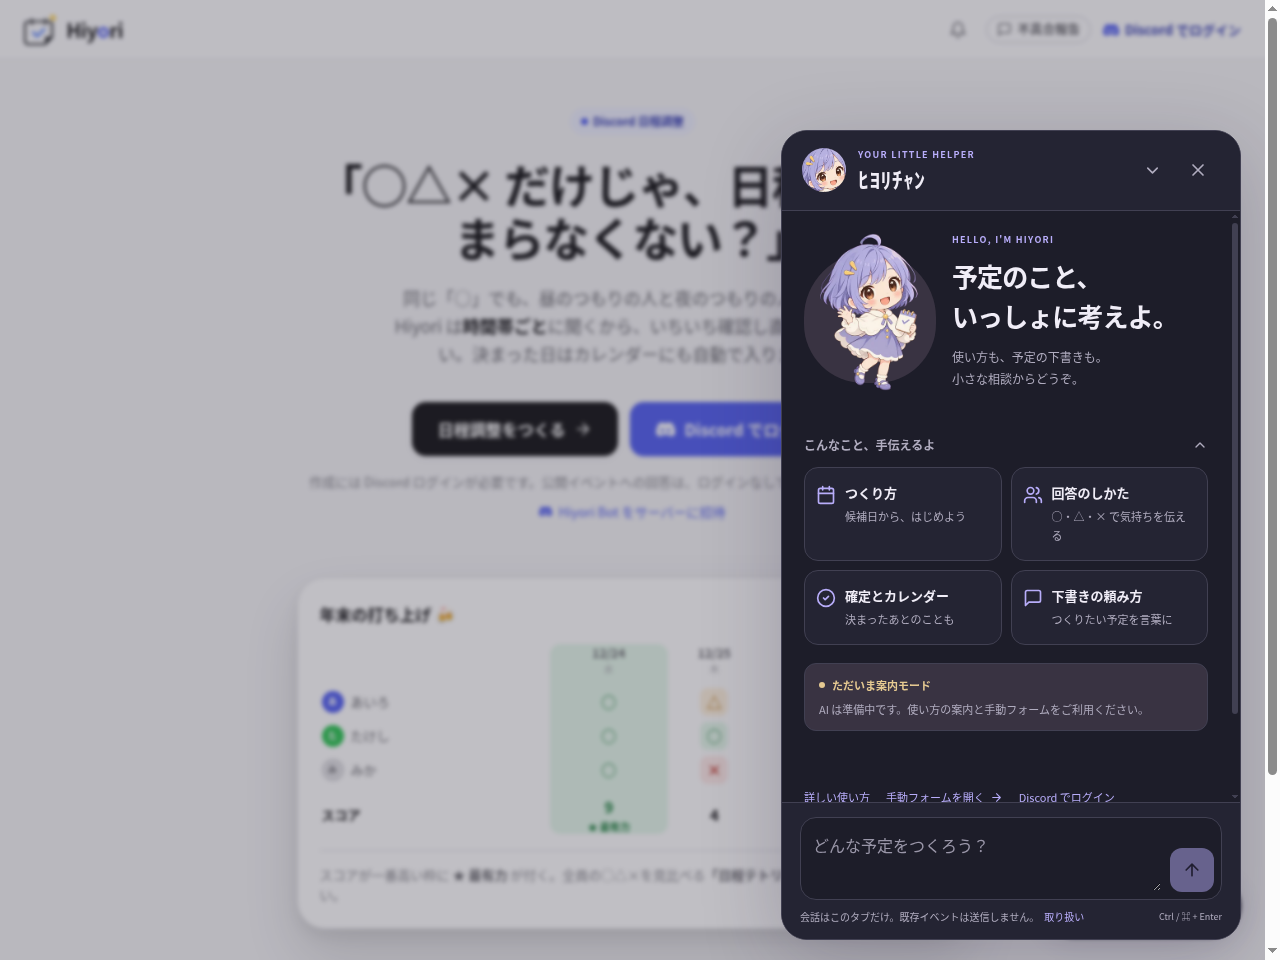
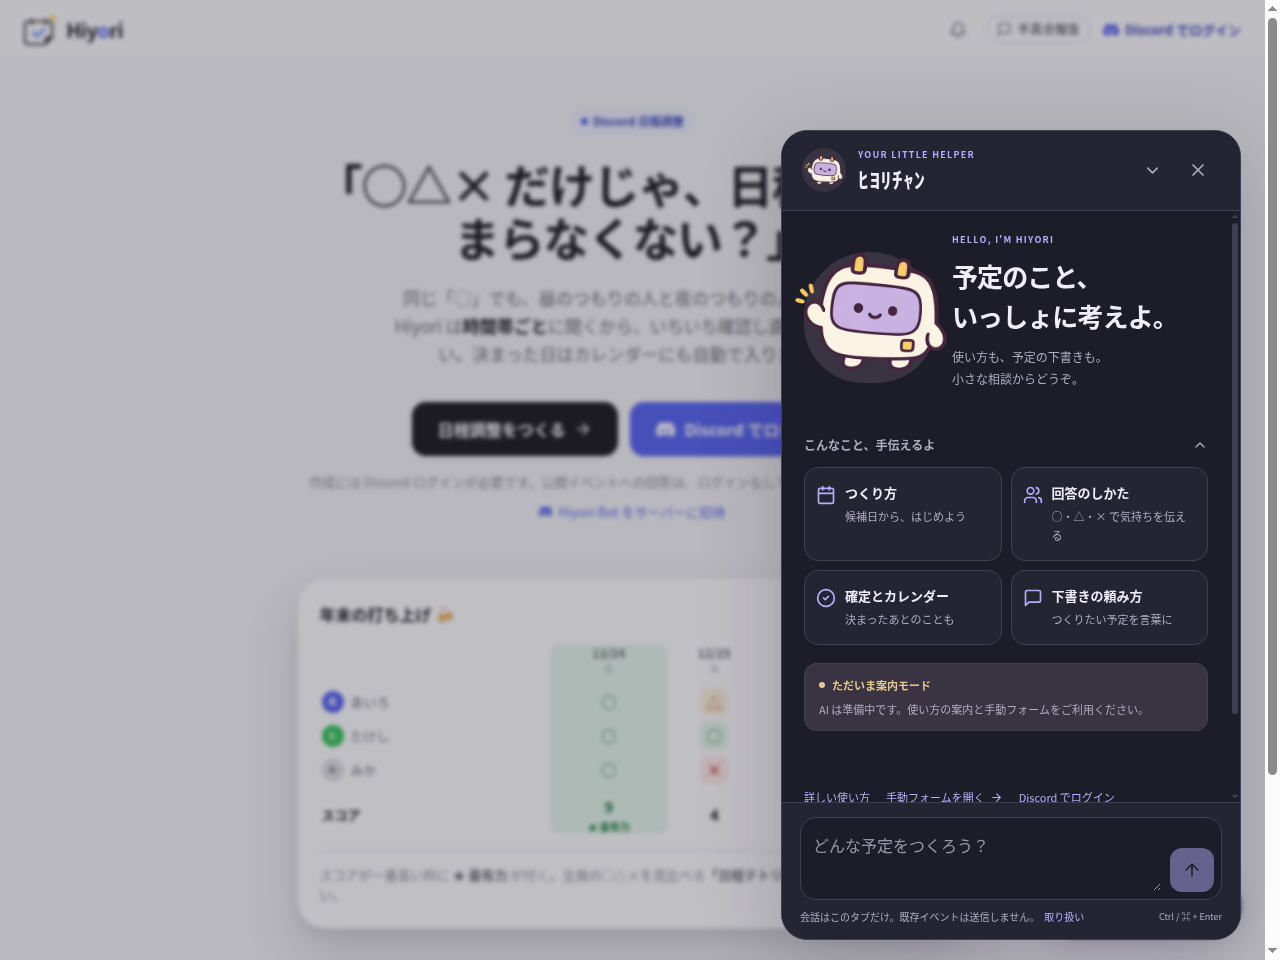
Replace mascot artwork with approved calendar bot

Changed region(s): [[0.625, 0.25, 0.75, 0.4062], [0.625, 0.1562, 0.6875, 0.2188]]

diff --git a/src/client/components/Hiyori.tsx b/src/client/components/Hiyori.tsx
@@ -5,7 +5,7 @@ import { useSession, loginUrl } from '../auth/useSession'
 import { HIYORI_GUIDE, HIYORI_MEME, hiyoriReplySchema, isHiyoriMeme, type HiyoriDraft } from '../../shared/hiyori'
 import type { ComposerInitial } from './events/EventComposer'
 import { Icon } from './primitives'
-import hiyoriCharacter from '../assets/images/hiyori-chan.webp'
+import hiyoriCharacter from '../assets/images/hiyori-bot.webp'
 import './Hiyori.css'
 
 type Message = { id: string; role: 'user' | 'assistant'; content: string }
@@ -251,7 +251,7 @@ export function HiyoriProvider({ children }: { children: ReactNode }) {
         </header>
         <div ref={scroller} className="hiyori-scroll">
           {!current.messages.length && !current.draft && !busy && <section className="hiyori-welcome" aria-label="ﾋﾖﾘﾁｬﾝのごあいさつ">
-            <div className="hiyori-welcome-art"><img src={hiyoriCharacter} alt="カレンダーを持って手を振るﾋﾖﾘﾁｬﾝ" width={384} height={384} decoding="async" /></div>
+            <div className="hiyori-welcome-art"><img src={hiyoriCharacter} alt="手を振る小さなカレンダー型 Bot、ﾋﾖﾘﾁｬﾝ" width={384} height={384} decoding="async" /></div>
             <div><span className="hiyori-eyebrow">HELLO, I'M HIYORI</span><h3>予定のこと、<br />いっしょに考えよ。</h3><p>使い方も、予定の下書きも。<br />小さな相談からどうぞ。</p></div>
           </section>}
           <details className="hiyori-guides" open={guidesOpen} onToggle={(event) => setGuidesOpen(event.currentTarget.open)}>

diff --git a/src/client/components/Hiyori.test.tsx b/src/client/components/Hiyori.test.tsx
@@ -60,7 +60,7 @@ afterEach(() => { vi.unstubAllGlobals() })
 describe('ﾋﾖﾘﾁｬﾝの UI と本人の確認', () => {
   it('生成画像を使い、開いた直後は入力欄にフォーカスせず、閉じると起動ボタンへ戻す', async () => {
     setup(); await open()
-    expect(screen.getByRole('img', { name: 'カレンダーを持って手を振るﾋﾖﾘﾁｬﾝ' }).getAttribute('src')).toContain('hiyori-chan.webp')
+    expect(screen.getByRole('img', { name: '手を振る小さなカレンダー型 Bot、ﾋﾖﾘﾁｬﾝ' }).getAttribute('src')).toContain('hiyori-bot.webp')
     expect(document.activeElement).toBe(screen.getByRole('heading', { name: 'ﾋﾖﾘﾁｬﾝ' }))
     expect(document.activeElement).not.toBe(screen.getByLabelText('ﾋﾖﾘﾁｬﾝへのメッセージ'))
     fireEvent.click(screen.getByRole('button', { name: 'チャットを閉じる' }))

diff --git a/src/client/components/Hiyori.css b/src/client/components/Hiyori.css
@@ -22,7 +22,7 @@
 }
 .hiyori-launcher:hover { border-color: var(--hy-primary); box-shadow: 0 6px 28px rgb(45 35 78 / 18%); }
 .hiyori-avatar { position: relative; display: block; flex: none; width: 44px; height: 44px; overflow: hidden; border-radius: 50%; background: var(--hy-warm); }
-.hiyori-avatar img { position: absolute; width: 240%; height: 240%; max-width: none; left: -70%; top: -25%; object-fit: contain; }
+.hiyori-avatar img { display: block; width: 100%; height: 100%; padding: 2px; box-sizing: border-box; object-fit: contain; }
 .hiyori-launcher .hiyori-avatar { width: 52px; height: 52px; }
 .hiyori-launcher-label { display: grid; text-align: left; gap: 2px; }
 .hiyori-launcher-label small { font-size: 10px; font-weight: 500; color: var(--hy-muted); }

diff --git a/docs/design/hiyori/README.md b/docs/design/hiyori/README.md
@@ -1,9 +1,11 @@
 # ﾋﾖﾘﾁｬﾝのキャラクターと UI
 
-2026-10-25 に built-in image_gen で生成したオリジナルのキャラクター。原画を実際に目視確認し、透過 PNG をそのまま保存した。日和を感じる青紫・クリーム・日差しの金色と、日程調整のカレンダーノートを使う。顔は絵文字や CSS ではなく実画像。
+採用するのは、2026-10-25 に built-in image_gen で生成した小さなカレンダー型 Bot。丸いボディと表情のある画面、太い輪郭、青紫・クリーム・日差しの金色を使う。原画を実際に目視確認して使用し、透過 PNG をそのまま保存した。顔は絵文字や CSS ではなく実画像。
 
-- [透過原画 PNG](hiyori-chan-original.png): 1254×1254、約1MB。
-- [UI 用 WebP](../../../src/client/assets/images/hiyori-chan.webp): 384×384、約30KB。原画をリサイズ・形式変換し、アルファ透過を維持。追加依存・外部画像 CDN は使わない。
+- [採用 Bot の透過原画 PNG](hiyori-bot-original.png): 1312×1199、約509KB。
+- [UI 用 WebP](../../../src/client/assets/images/hiyori-bot.webp): 384×384。透明な余白を整えてリサイズ・形式変換し、アルファ透過を維持。小さなアバターでも全身の輪郭と表情が見えるように表示する。追加依存・外部画像 CDN は使わない。
+
+旧人型案 `hiyori-chan-original.png` は不採用。検討履歴として残すが、UI からは参照しない。以下の画面は採用 Bot に差し替えた後のもの。
 
 ## ローカル画面
 
@@ -18,6 +20,8 @@
 | ![PC のダーク画面](desktop-dark.png) | ![スマホの下書きカード](mobile-draft.png) |
 
 [PC の下書きカード](desktop-draft.png)
+
+[スマホのダーク画面](mobile-dark.png) ／ [小さな起動ボタン](desktop-launcher.png)
 
 マスコットのテーマは OS の light/dark に対応し、既存サイトのグローバルテーマは変更しない。開いた直後は見出しへフォーカスし、スマホのキーボードを勝手に開かない。閉じると起動元へ戻り、Escape とネイティブ dialog のフォーカス制御を使う。Ctrl/⌘+Enter 送信は IME 変換中には動かさない。モバイルは VisualViewport の変化に追従する。
 
